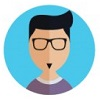
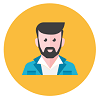
Fixtures Update

diff --git a/src/DataFixtures/AppFixtures.php b/src/DataFixtures/AppFixtures.php
@@ -11,6 +11,12 @@ use App\Entity\Classification;
 use App\Entity\Screen;
 use App\Entity\Mention;
 
+use App\Repository\MemberRepository;
+use App\Repository\FigureRepository;
+use App\Repository\ClassificationRepository;
+use App\Repository\ScreenRepository;
+use App\Repository\MentionRepository;
+
 
 // use Symfony\Component\Security\Core\Encoder\UserPasswordEncoderInterface;
 
@@ -32,6 +38,17 @@ class AppFixtures extends Fixture
     }
     */
 
+    public function __construct(ClassificationRepository $classificationRepository, FigureRepository $figureRepository, ScreenRepository $screenRepository, MentionRepository $mentionRepository, MemberRepository $memberRepository /*, UserPasswordEncoderInterface $encoder */)
+	{
+		$this->classificationRepository = $classificationRepository;
+		$this->figureRepository = $figureRepository;
+		$this->screenRepository = $screenRepository;
+		$this->mentionRepository = $mentionRepository;
+		$this->memberRepository = $memberRepository;
+
+		// $this->encoder = $encoder;
+	}
+
     public function load(ObjectManager $manager)
     {
         // 13 février ajout de fakerPhp via composer :
@@ -41,20 +58,28 @@ class AppFixtures extends Fixture
         // $faker = \Faker\Factory::create('FR-fr');
 
         // $members = [];
+        $members = ['jean', 'billy', 'vincent', 'marion', 'nicolas', 'michel', 'paolo'];
 
         // $figures = [];
         // 30 figures
-        $figures = ['Mute', 'Style Week', 'Indy', 'Stalefish', 'Tail grab', 'Nose Grab', 'Japan Air', 'Seat Belt', 'Truck driver', 'Big foot', 'Slide', 'Rocket Air', 'Flip', 'Method Air', 'Back flip', 'Misty', 'Tail slide', 'Backside air', 'Gutter Ball', 'Flip 900', 'Rotation 180', 'Rotation 360', 'Rotation 720', 'Switch 270', 'Front flip', 'Mac Twist', 'Rodeo', 'Backside Air', 'Nose slide', 'Modulo'];
+        $figures = ['Mute', 'Style Week', 'Indy', 'Stalefish', 'Tail grab', 'Nose Grab', 'Japan Air', 'Seat Belt', 'Truck driver', 'Big foot', 'Slide', 'Modulo', 'Flip', 'Method Air', 'Back flip', 'Misty', 'Tail slide', 'Backside air', 'Gutter Ball', 'Flip 900', 'Rotation 180', 'Rotation 360', 'Rotation 720', 'Switch 270', 'Front flip', 'Mac Twist', 'Rodeo', 'Backside Air', 'Nose slide', 'Rocket Air'];
 
-        // $images = ['https://www.snowsurf.com/media/NEWS_2016/ovembre%202016/itw%20lucile%20lefevre/lucile%20lefevre.jpg', 'https://cdn.unitycms.io/image/focus/1200,900,1000,1000,0,0,500,500/HkMGZ2vmlOc/Ald6zCINK-H84XhALHYLwQ.jpg', 'https://cdn.shopify.com/s/files/1/0244/5983/7536/articles/erik1_1200x.jpg?v=1581671080', 'https://www.sci-sport.com/articles/img/a02400.jpg', 'https://www.10wallpaper.com/wallpaper/2560x1600/1307/snowboard_tricks_guys_snow-Sports_HD_Wallpaper_2560x1600.jpg', 'https://cdn.shopify.com/s/files/1/0148/9585/articles/snowboardingtricks_1800x900.png?v=1539207001', 'https://www.abc-of-snowboarding.com/wp-content/uploads/2019/05/Snowboarding-Tricks.jpg', 'https://cdn.shopify.com/s/files/1/0230/2239/articles/Snowboard_Trick_Terminology_1024x1024.jpg?v=1556396922', 'https://www.abc-of-snowboarding.com/wp-content/uploads/2019/05/Snowboarding-Tricks.jpg', 'https://www.sci-sport.com/articles/img/a02400.jpg', 'https://www.meriski.co.uk/uploads/Images/blog/Beginners_Guide_To_Skiing/_1200/41273701930_c5a6c590f0_o.jpg', 'https://www.sci-sport.com/articles/img/a02400.jpg', 'https://www.meriski.co.uk/uploads/Images/blog/Beginners_Guide_To_Skiing/_1200/41273701930_c5a6c590f0_o.jpg', 'https://www.sci-sport.com/articles/img/a02400.jpg', 'https://www.meriski.co.uk/uploads/Images/blog/Beginners_Guide_To_Skiing/_1200/41273701930_c5a6c590f0_o.jpg'];
+        $images = ['http://localhost:8000/photos/styleweek.jpg','http://localhost:8000/photos/tips.jpg','http://localhost:8000/photos/backair.jpg','http://localhost:8000/photos/stalefish.jpg','http://localhost:8000/photos/redstyle.jpg', 'http://localhost:8000/photos/backgrab.jpg', 'http://localhost:8000/photos/birdy.jpg', 'http://localhost:8000/photos/elegant.jpg', 'http://localhost:8000/photos/falling.jpg', 'http://localhost:8000/photos/flying.jpg', 'http://localhost:8000/photos/halfpipe.jpg', 'http://localhost:8000/photos/header.jpg', 'http://localhost:8000/photos/indy.jpg', 'http://localhost:8000/photos/jump.jpg', 'http://localhost:8000/photos/jumpgrab.jpg', 'http://localhost:8000/photos/longrampe.jpg', 'http://localhost:8000/photos/multiple.jpg', 'http://localhost:8000/photos/mute.jpg', 'http://localhost:8000/photos/noseslide.jpg', 'http://localhost:8000/photos/onehand.jpg', 'http://localhost:8000/photos/perspective.jpg', 'http://localhost:8000/photos/rampe.jpg', 'http://localhost:8000/photos/sapins.jpg', 'http://localhost:8000/photos/slide.jpg', 'http://localhost:8000/photos/slideleft.jpg', 'http://localhost:8000/photos/specialjump.jpg', 'http://localhost:8000/photos/speed.jpg', 'http://localhost:8000/photos/curvy.jpg', 'http://localhost:8000/photos/backnose.jpg', 'http://localhost:8000/photos/incredible.jpg'];
 
-        $classifications = [];
-        // $arrayClassifications = ['Nouveautés', 'Créations', 'Grabs', 'Rotations', 'Flips', 'Slides', 'One Foot', 'Old School', 'Switchings',  'Improvisés', 'Flyings', 'Big Air', 'Half Pipe', 'Slopestyle', 'Bordercross', 'Street'];
+        // $classifications = [];
+        $classifications = ['Nouveautés', 'Créations', 'Grabs', 'Rotations', 'Flips', 'Slides', 'One Foot', 'Old School', 'Switchings',  'Improvisés', 'Flyings', 'Big Air', 'Half Pipe', 'Slopestyle', 'Bordercross', 'Street'];
 
         // $screens = [];
-        $screens = ['aINlzgrOovI', '8AWdZKMTG3U', 'Zc8Gu8FwZkQ', 'UrMDH3um3CE', 's3jRiFyOijw', 'SQyTWk7OxSI'];
+        $screens = ['http://localhost:8000/backgrounds/snowExample1.jpg', 'http://localhost:8000/backgrounds/snowExample2.jpg', 'http://localhost:8000/backgrounds/snowExample3.jpg', 'UrMDH3um3CE', 's3jRiFyOijw', 'SQyTWk7OxSI'];
 
         // $mentions = [];
+
+        // Pour remettre l'Index de départ au lancement de chaque nouvelle fixture
+		$this->memberRepository->fixtureIndex();
+		$this->screenRepository->fixtureIndex();
+		$this->mentionRepository->fixtureIndex();
+		$this->figureRepository->fixtureIndex();
+		$this->classificationRepository->fixtureIndex();
 
         /*
         // 2 MEMBRES CRÉÉS
@@ -83,52 +108,76 @@ class AppFixtures extends Fixture
         */
 
         // 1 MEMBRE CRÉÉ
+        /*
+        $member = new Member();
 
+        $member->setEmail('billy@gmail.com')
+                ->setUsername('Billy')
+                // Même mot de passe pour tous les Members générés par la Fixture
+                ->setPassword('$2y$13$MdeK0Bpcugk25rsRO2HhiuVqCNt2YCKmimre18mQ0IHnjQtVbN6l.')
+                // ->setPassword($this->encoder->encodePassword($user, 'password'))
+                ->setCreatedAt(new \DateTime)
+                // ->setToken(hash('sha256', random_bytes(10)))
+                ->setValidation(true)
+                ->setStatus('1')
+                ->setAvatar('snowAvatar7.jpg')
+                // ->setAvatar('snowAvatar'. $i .'-6025b9fc9bcc'. $i .'.png')
+
+                ;
+
+        $manager->persist($member);
+        */
+
+        // CRÉATION DE 7 MEMBRES
+        for ($i=0; $i<7; $i++)
+        {
             $member = new Member();
 
-            $member->setEmail('billy@gmail.com')
-                    ->setUsername('Billy')
+            $member->setEmail(''. $members[$i] .'@gmail.com')
+                    ->setUsername($members[$i])
                     // Même mot de passe pour tous les Members générés par la Fixture
                     ->setPassword('$2y$13$MdeK0Bpcugk25rsRO2HhiuVqCNt2YCKmimre18mQ0IHnjQtVbN6l.')
-                    // ->setPassword($this->encoder->encodePassword($user, 'password'))
+                    // ->setPassword($this->encoder->encodePassword($member, 'password'))
                     ->setCreatedAt(new \DateTime)
                     // ->setToken(hash('sha256', random_bytes(10)))
                     ->setValidation(true)
                     ->setStatus('1')
-                    ->setAvatar('newAvatar-2020b9fc9bcc8.jpg')
+                    ->setAvatar('snowAvatar'. $i .'.jpg')
                     // ->setAvatar('snowAvatar'. $i .'-6025b9fc9bcc'. $i .'.png')
-
-                 ;
-
+    
+                    ;
+    
             $manager->persist($member);
+
+        }
  
 
-        // 2 CATÉGORIES CRÉÉES
-        // foreach ($arrayCategories as $value)
-        // {
+        // 16 CATÉGORIES CRÉÉES
+        foreach ($classifications as $key => $value)
+        {
             $classification = new Classification();
 
-            // $classification->setTitle($value);
-
-            $classification->setTitle("Nouveautés");
+            $classification->setTitle($value);
 
             $manager->persist($classification);
 
             // $classifications[] = $classification;
-        // }
+        }
 
-        // 24 TRICKS CRÉÉS 
-        // for ($j=0; $j<24; $j++)
+        // TRICKS  
+        // for ($j=0; $j<30; $j++)
 
         // 30 TRICKS CRÉÉS
-        foreach ($figures as $key => $value)
+        foreach ($figures as $key2 => $value2)
         {
+            
+
             $figure = new Figure();
 
-            // $figure->setTitle('Trick Post '.$j)
-            $figure->setTitle($value)
-                    ->setContent("Lorem Ipsum sed ut perspiciatis !")
-                    ->setImage('https://www.meriski.co.uk/uploads/Images/blog/Beginners_Guide_To_Skiing/_1200/41273701930_c5a6c590f0_o.jpg')
+            $figure->setTitle($value2)
+                    ->setContent("Lorem ipsum sed ut perspiciatis !")
+                    // ->setImage('https://www.meriski.co.uk/uploads/Images/blog/Beginners_Guide_To_Skiing/_1200/41273701930_c5a6c590f0_o.jpg')
+                    ->setImage($images[$key2])
                     // ->setImage($faker->randomElement($images))
                     ->setCreatedAt(new \Datetime)
                     ->setClassification($classification)
@@ -138,54 +187,50 @@ class AppFixtures extends Fixture
 
             $manager->persist($figure);
 
-            $figures[] = $figure;
+            // $figures[] = $figure;
+
+            // 24 COMMENTAIRES CRÉÉS
+            // for ($k=0; $k<24; $k++)
+            // {
+                $mention = new Mention();
+
+                $mention->setContent("Lorem ipsum dolor sit amet !")
+                        // ->setContent($faker->sentences(1, true))
+                        ->setCreatedAt(new \Datetime)
+                        ->setFigure($figure)
+                        // ->setAuthor("Billy")
+                        ->setUser($member)
+
+                        ;
+
+                $manager->persist($mention);
+
+                // $mentions[] = $mention;
+                
+            // }
+
+            // 6 MÉDIAS CRÉÉS 
+            for ($j=0; $j<6; $j++)
+            // foreach ($screens as $key3 => $value3)
+            {
+                $screen = new Screen();
+
+                $screen->setThumbnail($screens[$j])
+                        // ->setThumbnail($screens[random_int(0, 5)])
+                        // ->setThumbnail($value3)
+                        ->setFigure($figure)
+
+                        ;
+
+                $manager->persist($screen);
+
+                // $screens[] = $screen;
+                
+            }
             
         }
 
-        // 6 MÉDIAS CRÉÉS 
-        // for ($j=0; $j<6; $j++)
-        foreach ($screens as $key => $media)
-        {
-            $screen = new Screen();
-
-            $screen->setThumbnail($media)
-                    // ->setFigure(20)
-                    ->setFigure($figure)
-
-                    ;
-
-            $manager->persist($screen);
-
-            $screens[] = $screen;
-            
-        }
-
-        // 24 COMMENTAIRES CRÉÉS
-        // for ($k=0; $k<24; $k++)
-        // {
-            $mention = new Mention();
-
-            // $mention->setAuthor('Membre '.$k)
-            $mention->setAuthor('Billy')
-                    ->setContent("Lorem Ipsum sed ut perspiciatis !")
-                    ->setCreatedAt(new \Datetime)
-                    // ->setFigure(20)
-                    // ->setUser(1)
-                    ->setFigure($figure)
-                    ->setUser($member)
-
-                    ;
-
-            $manager->persist($mention);
-
-            // $mentions[] = $mention;
-            
-        // }
         
-
-        // $product = new Product();
-        // $manager->persist($product);
-
         $manager->flush();
 
     }

diff --git a/src/Repository/ClassificationRepository.php b/src/Repository/ClassificationRepository.php
@@ -19,6 +19,12 @@ class ClassificationRepository extends ServiceEntityRepository
         parent::__construct($registry, Classification::class);
     }
 
+    public function fixtureIndex()
+	{
+		$connection = $this->getEntityManager()->getConnection();
+		$connection->exec("ALTER TABLE classification AUTO_INCREMENT = 1;");
+	}
+
     // /**
     //  * @return Classification[] Returns an array of Classification objects
     //  */

diff --git a/src/Repository/MentionRepository.php b/src/Repository/MentionRepository.php
@@ -19,6 +19,12 @@ class MentionRepository extends ServiceEntityRepository
         parent::__construct($registry, Mention::class);
     }
 
+    public function fixtureIndex()
+	{
+		$connection = $this->getEntityManager()->getConnection();
+		$connection->exec("ALTER TABLE mention AUTO_INCREMENT = 1;");
+	}
+
     // /**
     //  * @return Mention[] Returns an array of Mention objects
     //  */

diff --git a/src/Repository/FigureRepository.php b/src/Repository/FigureRepository.php
@@ -19,6 +19,12 @@ class FigureRepository extends ServiceEntityRepository
         parent::__construct($registry, Figure::class);
     }
 
+    public function fixtureIndex()
+	{
+		$connection = $this->getEntityManager()->getConnection();
+		$connection->exec("ALTER TABLE figure AUTO_INCREMENT = 1;");
+	}
+
     // /**
     //  * @return Figure[] Returns an array of Figure objects
     //  */

diff --git a/src/Repository/MemberRepository.php b/src/Repository/MemberRepository.php
@@ -19,6 +19,12 @@ class MemberRepository extends ServiceEntityRepository
         parent::__construct($registry, Member::class);
     }
 
+    public function fixtureIndex()
+	{
+		$connection = $this->getEntityManager()->getConnection();
+		$connection->exec("ALTER TABLE member AUTO_INCREMENT = 1;");
+	}
+
     // /**
     //  * @return Member[] Returns an array of Member objects
     //  */

diff --git a/src/Repository/ScreenRepository.php b/src/Repository/ScreenRepository.php
@@ -19,6 +19,12 @@ class ScreenRepository extends ServiceEntityRepository
         parent::__construct($registry, Screen::class);
     }
 
+    public function fixtureIndex()
+	{
+		$connection = $this->getEntityManager()->getConnection();
+		$connection->exec("ALTER TABLE screen AUTO_INCREMENT = 1;");
+	}
+
     // /**
     //  * @return Screen[] Returns an array of Screen objects
     //  */
